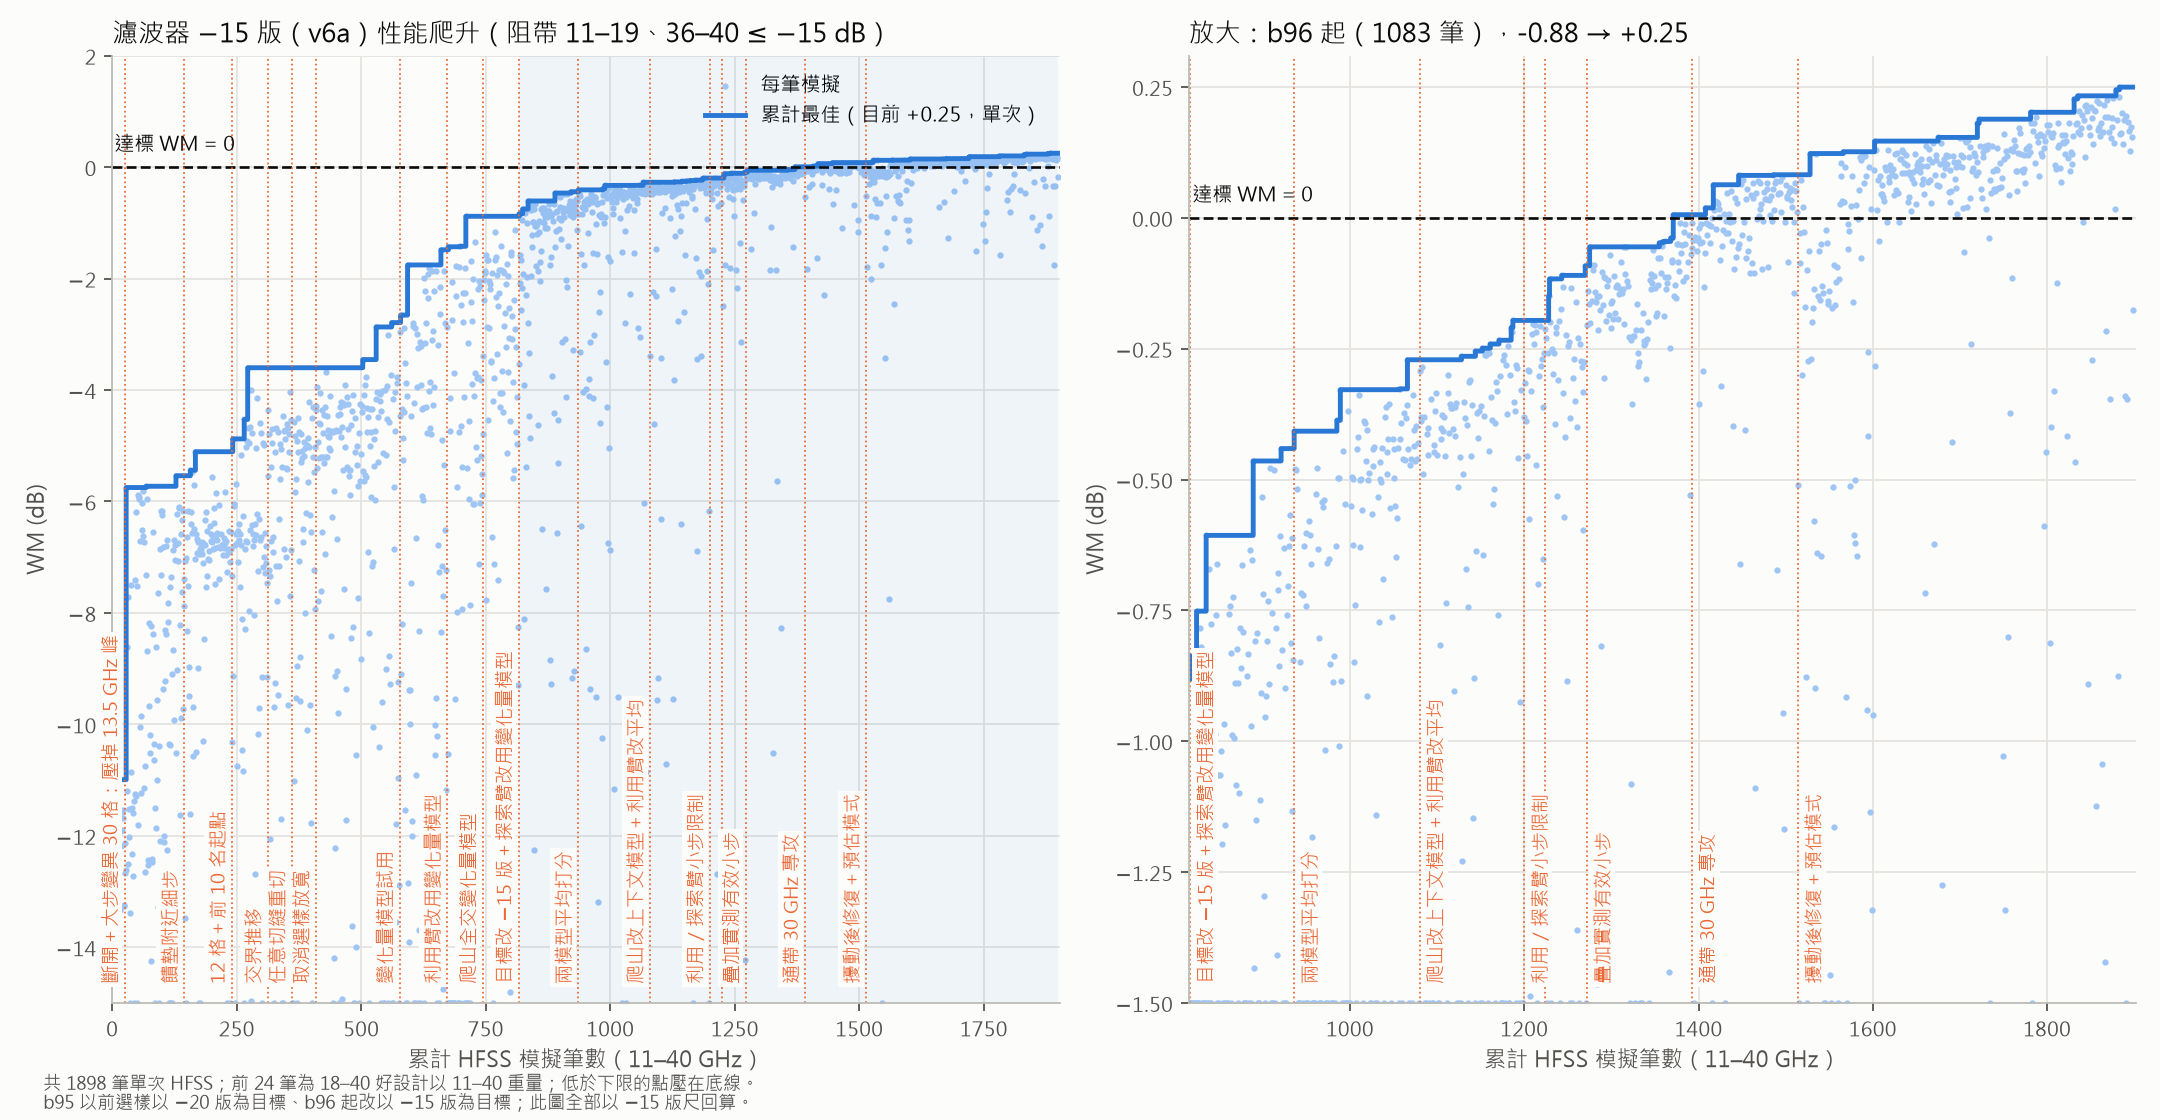
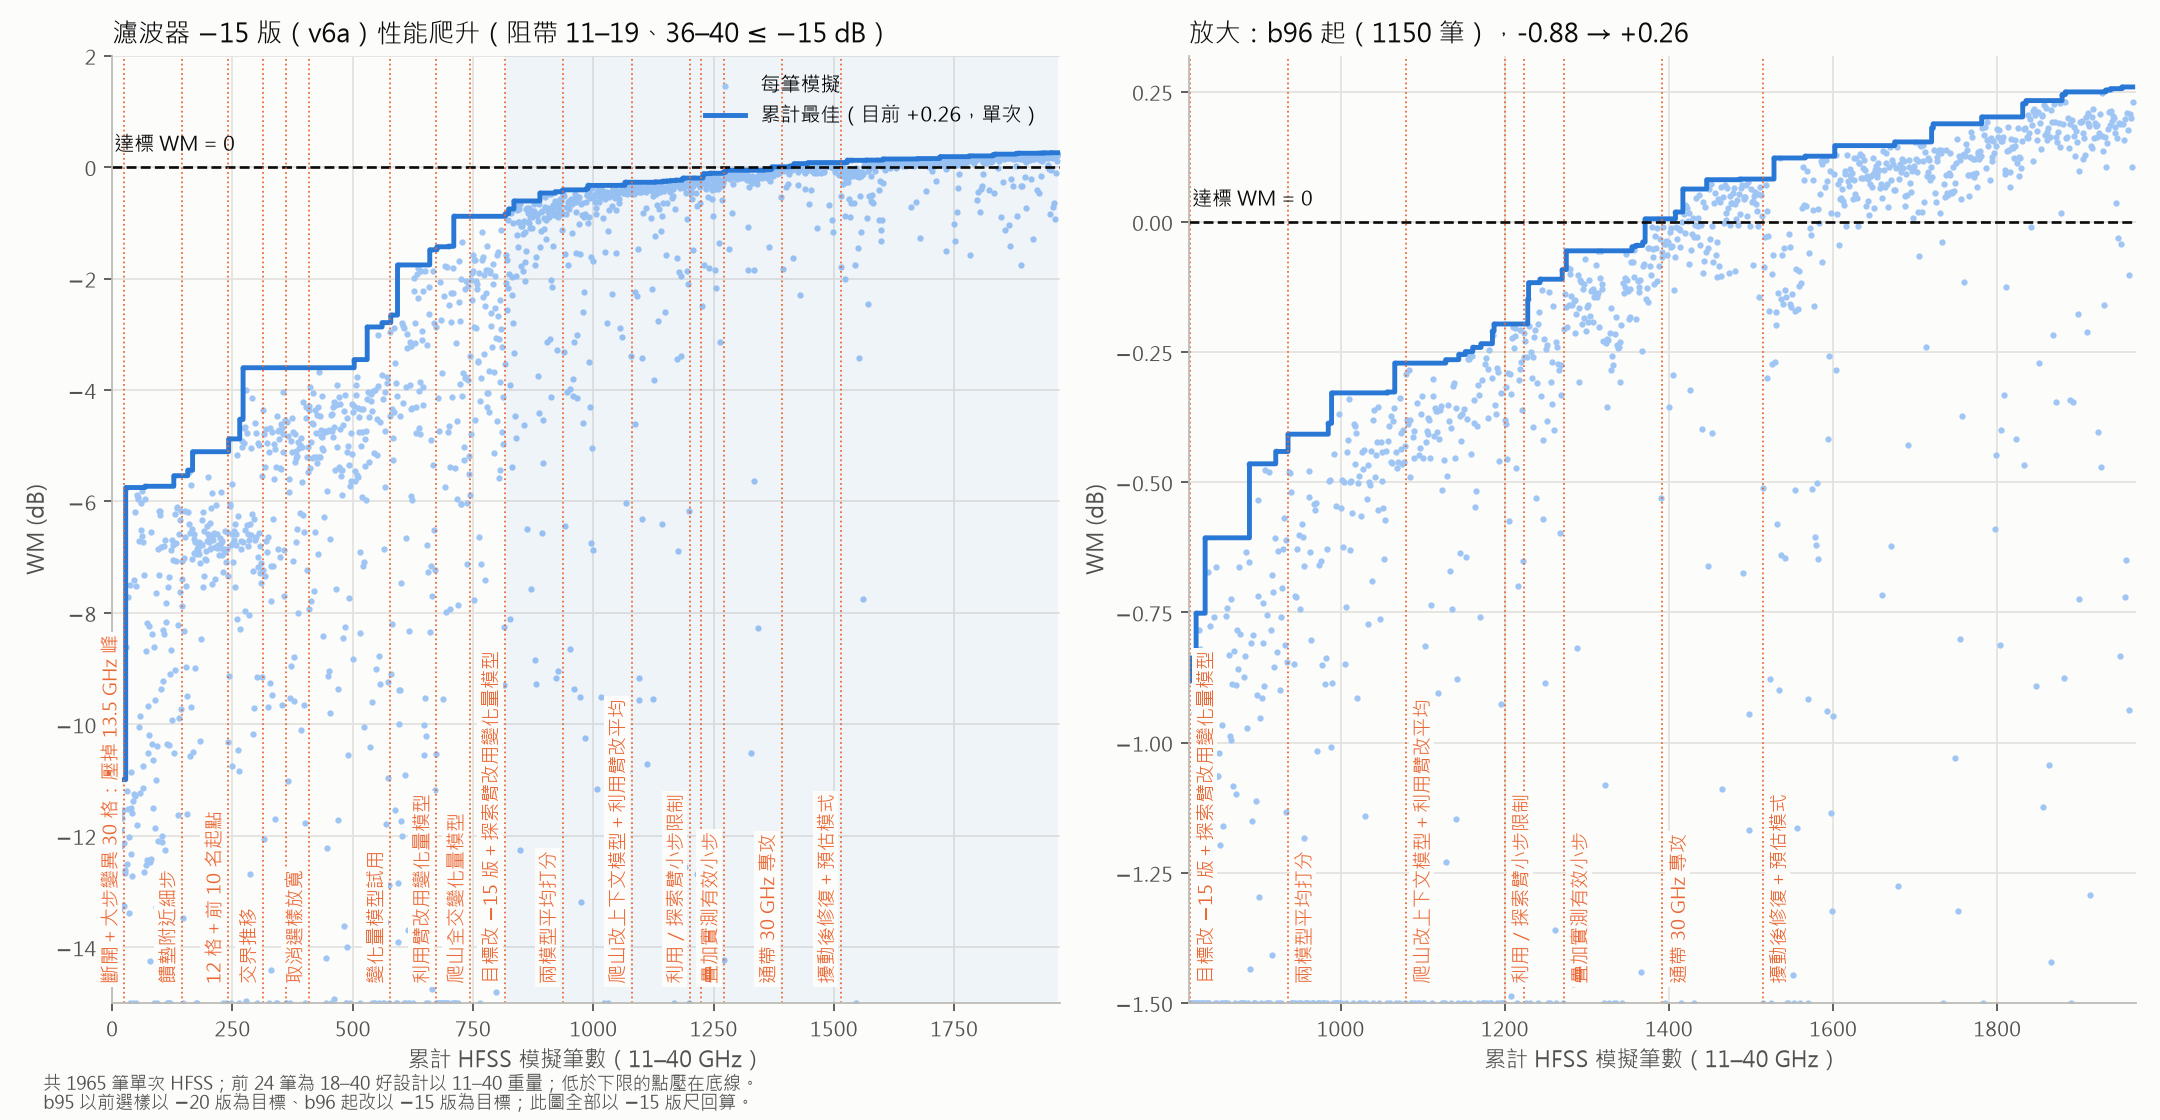
R96：公證 n24——mg30_005 +0.256（216=37），公證最佳；mg31_021 +0.259 公證中

diff --git a/script/figs/r81_v6.py b/script/figs/r81_v6.py
@@ -32,7 +32,8 @@ NOTARIZED = {                     # v6a 跨機公證通過（round-89／90）；
     "r81v6mg18_011_9c63dfbd": "37＝216", "r81v6mg20_011_04c84008": "216＝218",
     "r81v6mg23_013_70f5551f": "218＝216",
     "r81v6mg23_018_d4347f75": "216＝37", "r81v6mg25_011_b1bf6978": "218＝216",
-    "r81v6mg26_006_091f57e2": "216＝218", "r81v6mg28_012_5734eceb": "216＝218＝37"}
+    "r81v6mg26_006_091f57e2": "216＝218", "r81v6mg28_012_5734eceb": "216＝218＝37",
+    "r81v6mg30_005_375c13b7": "216＝37"}
 
 
 def rows_v6(cfg, grid):

diff --git a/configs/ONGOING.md b/configs/ONGOING.md
@@ -4,7 +4,7 @@
 > 2026-10-12 前的完整流水帳（R80 收尾、Codex 的 R81 release 機制、diffsim、資料工廠、🔜 候選、✅ 指標）原樣封存在
 > [docs/log/archive/ongoing-2026-10-12.md](../docs/log/archive/ongoing-2026-10-12.md)。
 
-最後更新：2026-10-22 20:30
+最後更新：2026-10-22 23:25
 
 ## 🔵 R81 寬頻濾波器 spec v2（running）→ [round-81](../docs/log/round-81-wide-filter.md)
 
@@ -43,6 +43,7 @@
 
 ## 🔵 R96 v6a 續爬 +0.25 之後（running）→ [round-96](../docs/log/round-96-v6a-025.md)
 
+- **10-22 23:25 公證最佳 `mg30_005` +0.256**（216＝37）；mg31_021 +0.259 公證中（216）。
 - 公證最佳 `mg28_012` +0.2498（216＝218；37 第三方 n21 排隊）。R95 已結（回報：3 批內 +0.233）。mg29（移植，18 筆）進行中。
 - 判準：3 批內公證 ≥ +0.30 成立；未破 +0.2498 → v6a 收尾交付。待查：218 對部分幾何離群。
 

diff --git a/docs/log/round-96-v6a-025.md b/docs/log/round-96-v6a-025.md
@@ -30,6 +30,13 @@
 
 - 37 重量 +0.2498，與 216／218 曲線完全一致——**三機一致**，可列交付候選（同 mg25_011）。
 
+### 2026-10-22 23:25：mg29／mg30 收齊、mg31 第一片；公證 n24——**mg30_005 +0.256（216＝37）**
+
+- mg29（移植，18）最佳 +0.22；mg30（預估，24）四筆 ≥ +0.247：mg30_005 **+0.2560**（216）、mg30_010 +0.2533（37）、mg30_018 +0.2473（218）。
+- mg31 第一片（218）：疊加臂 `mg31_021` **+0.2593**（單次；底 mg28_012＋小步疊加）→ 公證 n23（216）排隊。
+- `mg30_005` 37 重量 +0.2560、曲線差 0 → **公證最佳**（通帶 +0.256、低阻 +0.701、高阻 +2.826、S11 +2.611、S22 +6.465）。
+- 前段最緊項仍一律是通帶；+0.25 級設計間差 ≤ 0.01 dB。
+
 ## 5. 結論 (Conclude)
 
 ## 6. 後續決策 (Next)
